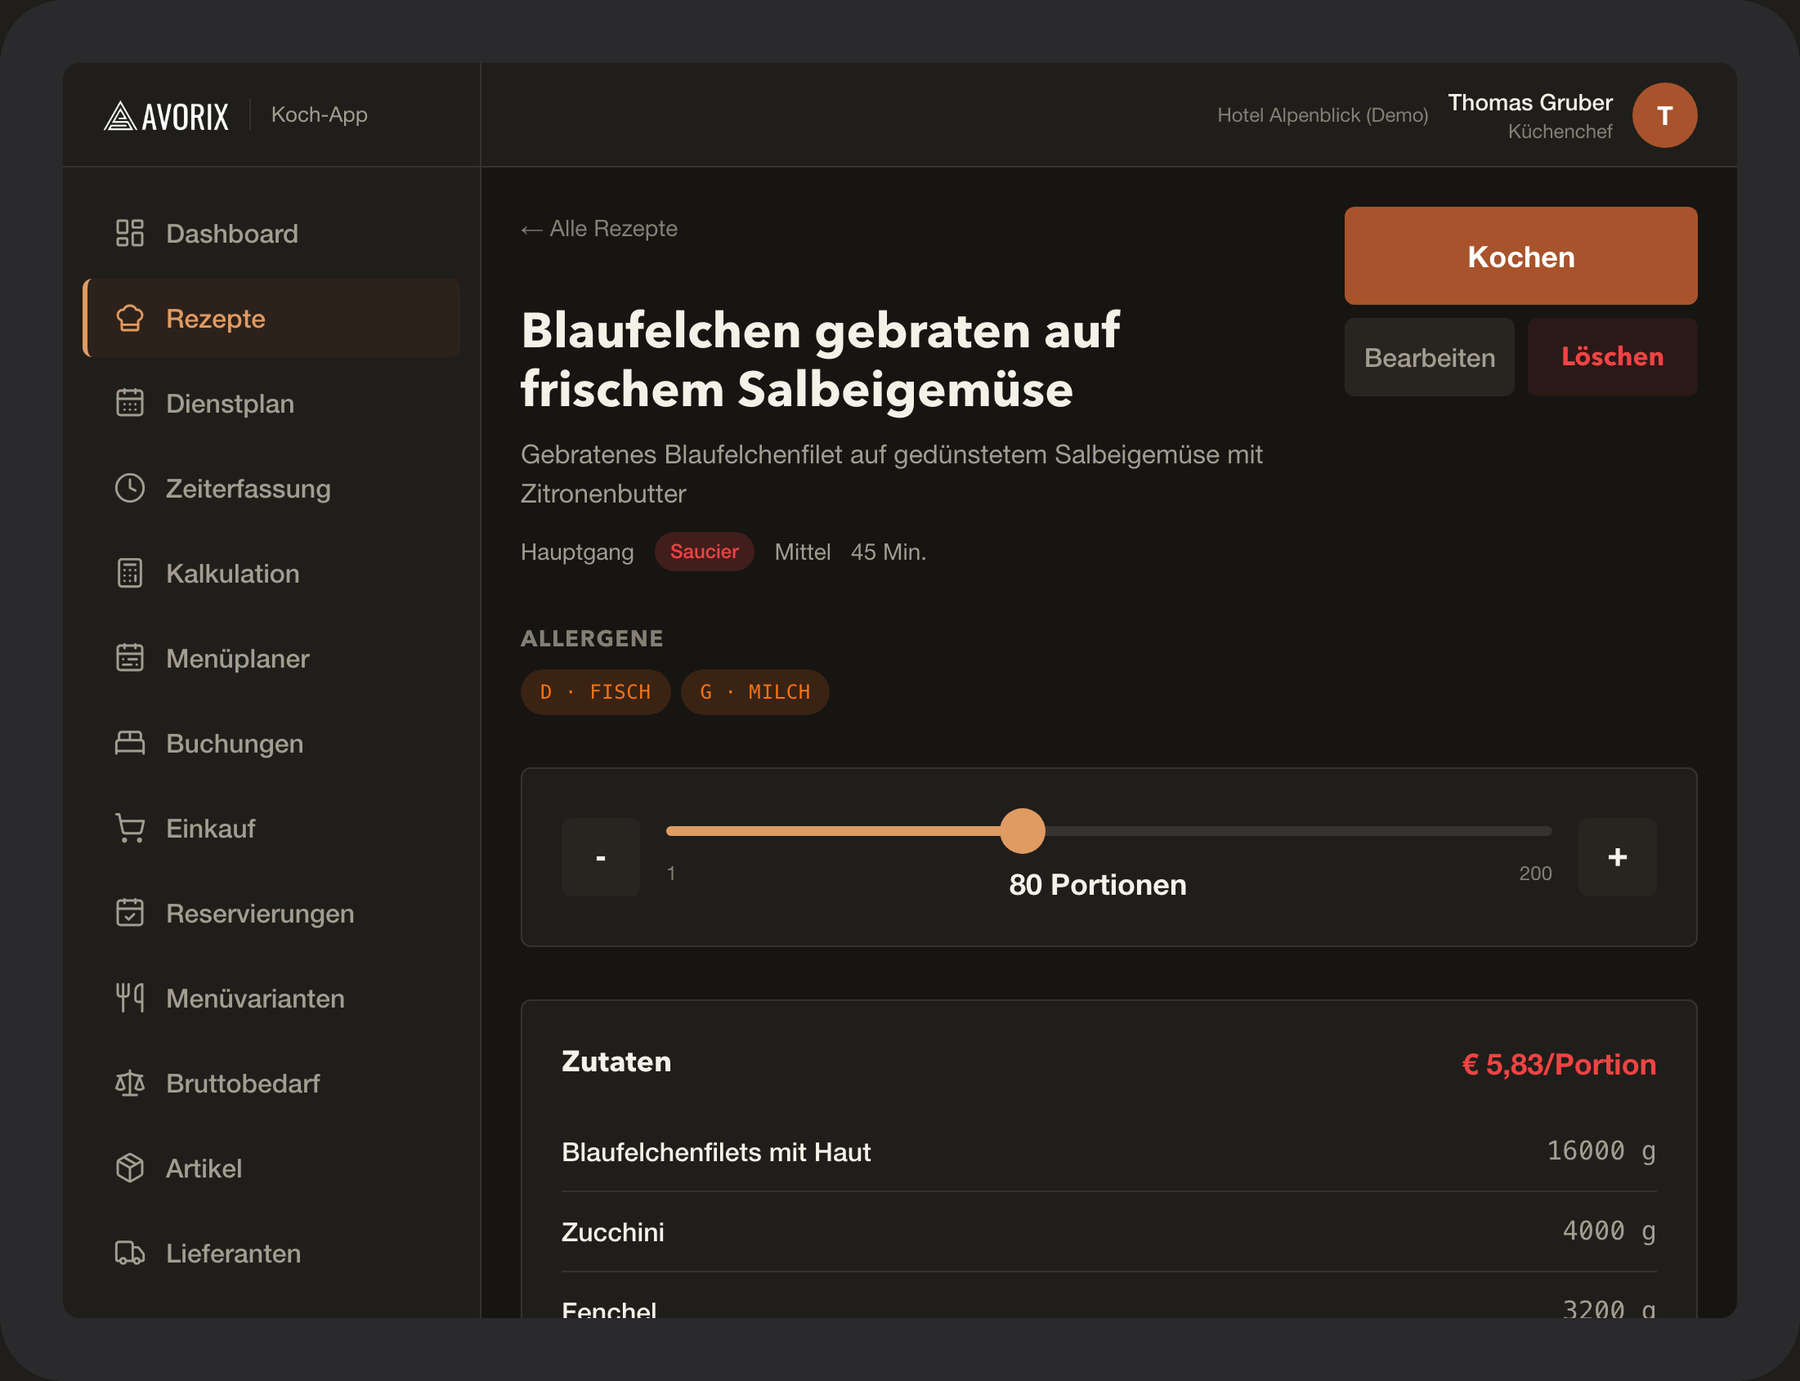
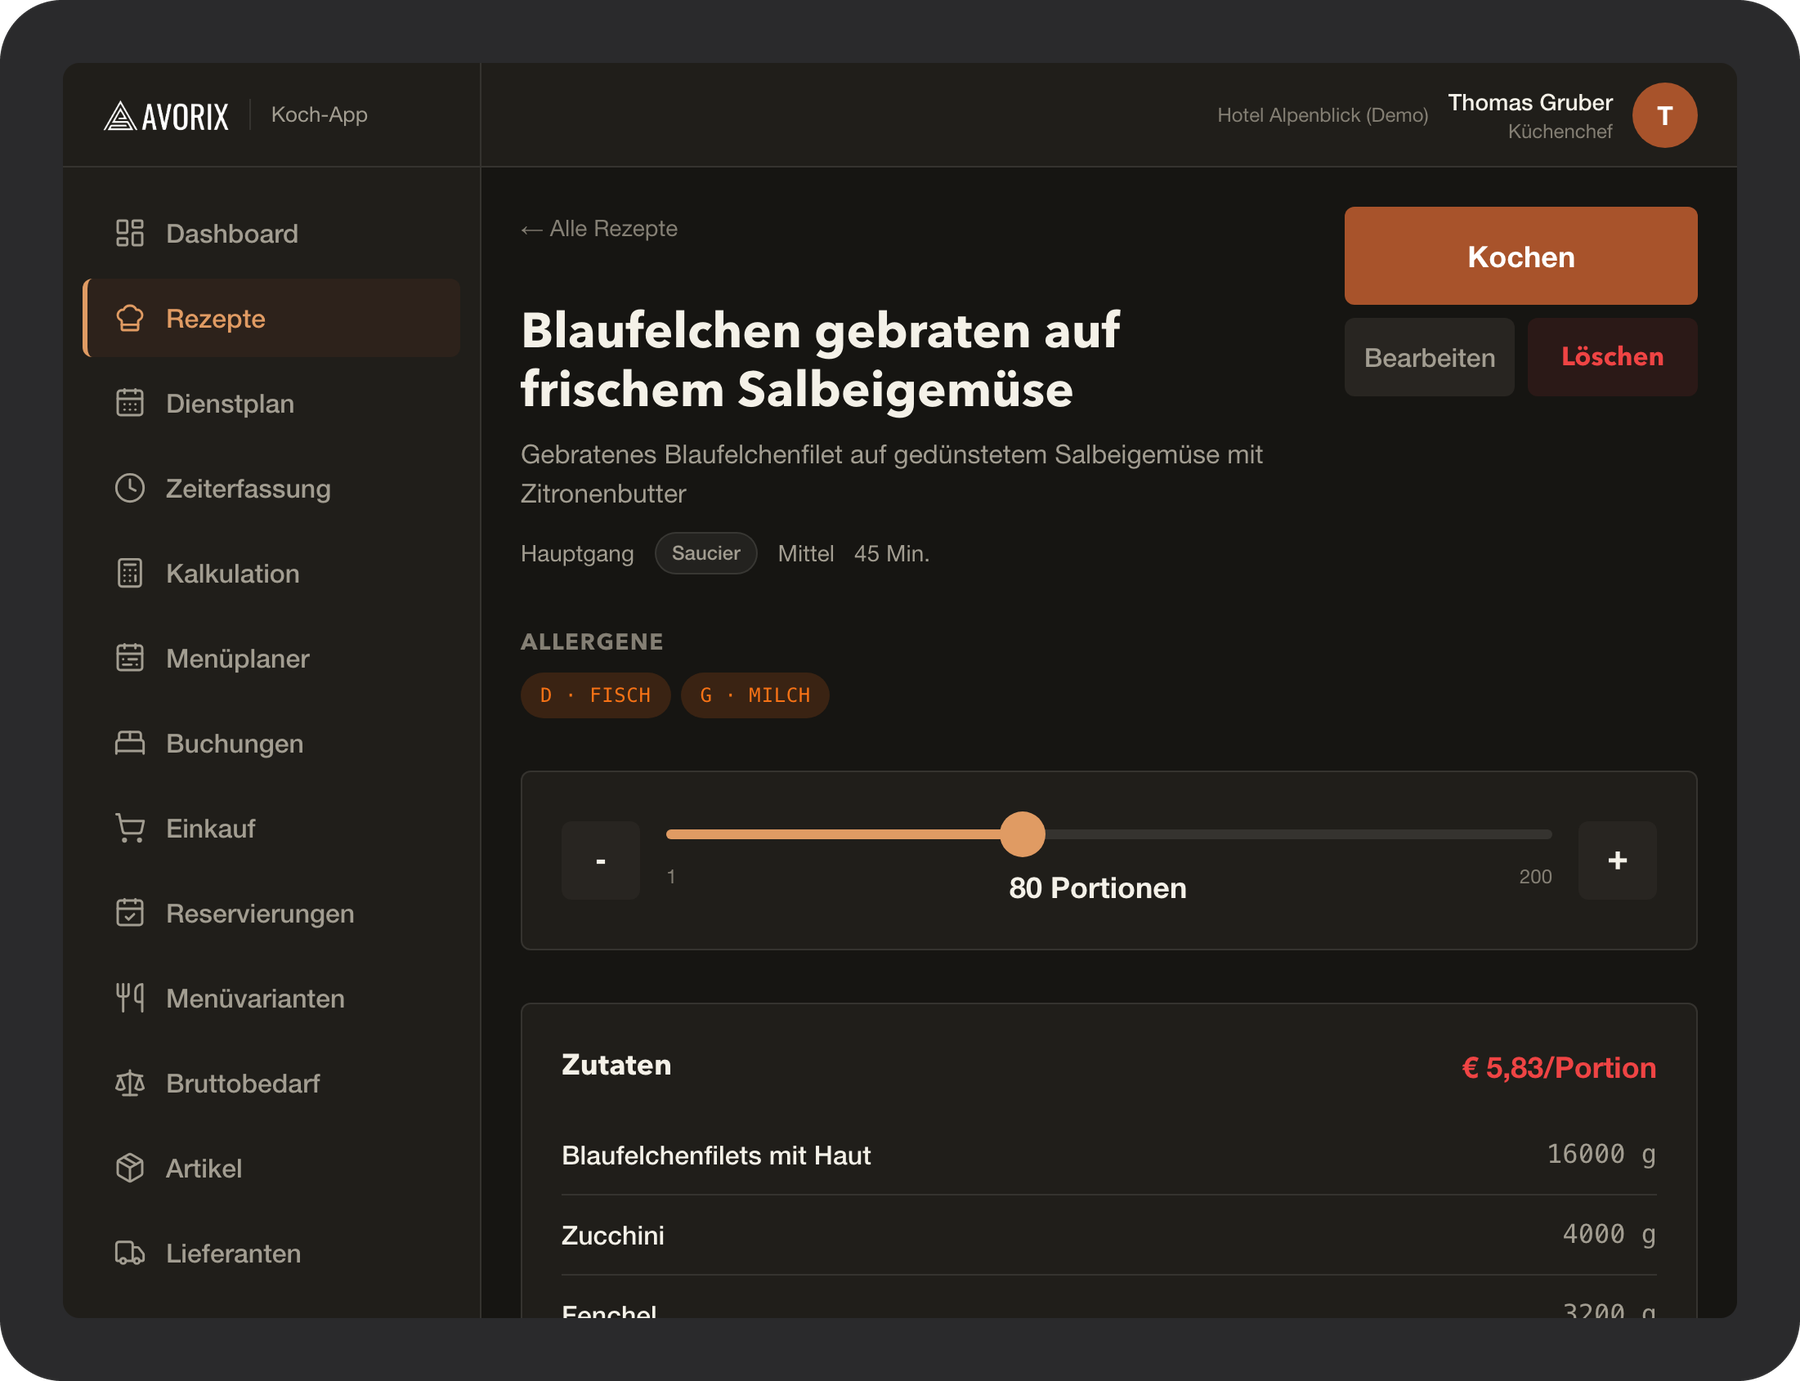
12g und 12h: Bilder nachgeliefert, Typografie und Weissraum
12g, reiner Dateitausch:
- app-rezepte-liste.png und app-rezept-detail-portionsrechner.png ersetzt,
  gleiche Maße, keine Slot-, Alt-Text- oder Caption-Aenderung.

12h/1, Zeilenabstand der Ueberschriften:
- h3 von geerbten 1.6 auf 1.25 - der groesste Gewinn, betraf alle
  mehrzeiligen Kartenueberschriften.
- h1 und h2 mobil 1.15 bzw. 1.20, ab 768px 1.05 bzw. 1.10. Je groesser
  die Schrift, desto enger der Zeilenabstand.

12h/2, Hervorhebungen auf der Startseite:
- Genau die 13 von Simon gewaehlten Stellen, wortgleich, nur Auszeichnung.
- Der Absatz "Und Ihre Kosten?" trug bisher eine andere Hervorhebung; sie
  weicht der gewaehlten, damit es bei einer je Absatz bleibt.
- Fett in --druck wie im Bestand, nicht kupfern.

12h/3, Weissraum:
- Karten-Innenabstand 24 -> 32px, Raster-Abstand auf Desktop 24 -> 40px
  (ueber :has(), damit nur echte Kartenraster betroffen sind und kein
  Markup angefasst wird). Mobil bleibt der Aussenabstand bei 24px.
- Abstand Kartenueberschrift zu Folgetext 8 -> 16px.
- Kartentext 14/1.43 -> 15/1.55.
- Sektionsabstaende unveraendert.

diff --git a/src/styles/global.css b/src/styles/global.css
@@ -190,7 +190,7 @@ h1 {
   font-family: var(--f-head);
   font-weight: 700;
   font-size: clamp(30px, 4.4vw, 52px);
-  line-height: 1.14;
+  line-height: 1.15;
   letter-spacing: -0.008em;
 }
 
@@ -198,7 +198,7 @@ h2 {
   font-family: var(--f-head);
   font-weight: 700;
   font-size: clamp(22px, 2.9vw, 32px);
-  line-height: 1.14;
+  line-height: 1.20;
   letter-spacing: -0.008em;
 }
 
@@ -206,6 +206,17 @@ h3 {
   font-family: var(--f-head);
   font-weight: 700;
   font-size: 20px;
+  /* 12h/1: vorher geerbte 1.6 vom Fliesstext — auf einer Ueberschrift zu schlaff,
+     die Zeilen banden sich nicht zu einem Block. Gilt Desktop wie mobil. */
+  line-height: 1.25;
+}
+
+/* 12h/1: Je groesser die Schrift, desto enger der Zeilenabstand. Ab der Breite,
+   ab der auch die Kartenraster nebeneinander stehen (768px), gelten die
+   Desktop-Faktoren. */
+@media (min-width: 768px) {
+  h1 { line-height: 1.05; }
+  h2 { line-height: 1.10; }
 }
 
 .lead {
@@ -320,7 +331,9 @@ figcaption,
   background: var(--flaeche);
   border: 1px solid var(--linie);
   border-radius: var(--radius);
-  padding: 24px;
+  /* 12h/3.1: Aussenabstand muss groesser sein als der Innenabstand, sonst
+     verschmelzen die Karten zu einer Textflaeche. */
+  padding: 32px;
   box-shadow: var(--schatten);
   transition: transform .18s, box-shadow .18s;
 }
@@ -347,12 +360,39 @@ figcaption,
   max-width: 760px;
 }
 
+/* 12h/3.1: Abstand ZWISCHEN den Karten deutlich groesser als IN ihnen.
+   Nur Desktop — mobil stehen die Karten untereinander, dort ist die Trennung
+   schon eindeutig. Ueber :has() statt ueber die gap-Klassen im Markup, damit
+   nur echte Kartenraster betroffen sind und keine Struktur angefasst wird. */
+@media (min-width: 768px) {
+  .grid:has(> .card),
+  .grid:has(> .card-modul) {
+    gap: 40px;
+  }
+}
+
+/* 12h/3.2: Ueberschrift und Folgetext klebten mit 8px enger zusammen als die
+   Textzeilen untereinander (20px). Der Abstand zwischen zwei verschiedenen
+   Dingen muss groesser sein als der innerhalb einer Sache. */
+.card h3, .card h4,
+.card-modul h3, .card-modul h4 {
+  margin-bottom: 16px;
+}
+
+/* 12h/3.3: Kartentext eine Spur groesser und luftiger. Enger Text auf grosser
+   Flaeche wirkt gedraengt, luftiger Text wirkt aufgeraeumt. */
+.card p, .card li,
+.card-modul p, .card-modul li {
+  font-size: 15px;
+  line-height: 1.55;
+}
+
 /* Modul-Karte (3.6): wie .card + Kopfzeile mit mono-Label + Speisekarten-Punktlinie */
 .card-modul {
   background: var(--flaeche);
   border: 1px solid var(--linie);
   border-radius: var(--radius);
-  padding: 24px;
+  padding: 32px;
   box-shadow: var(--schatten);
   transition: transform .18s, box-shadow .18s;
 }
